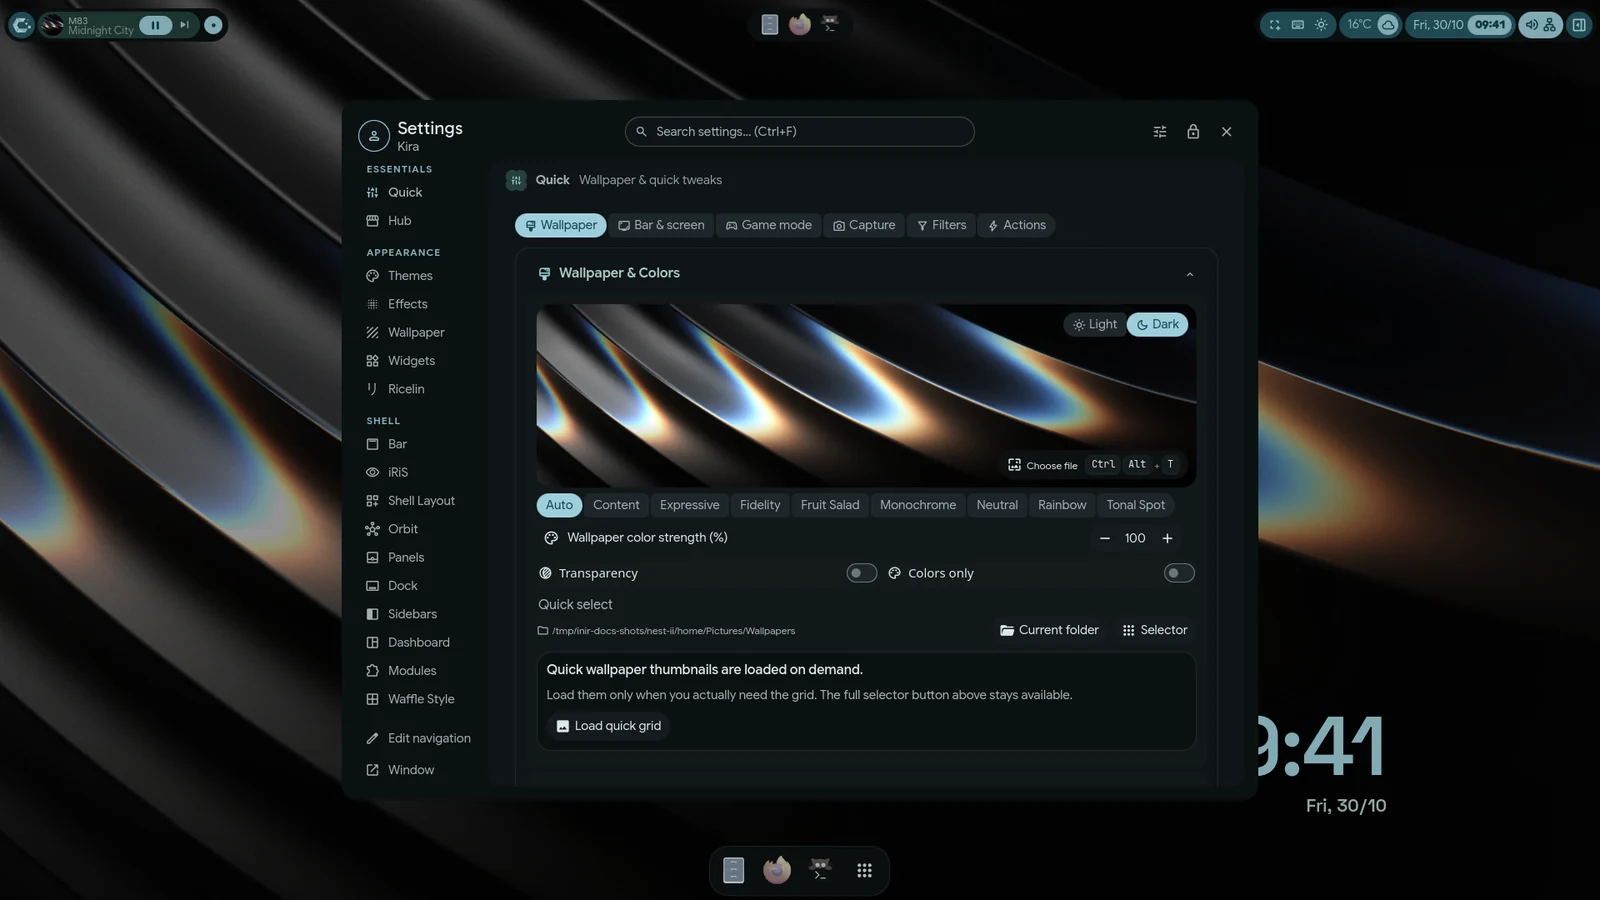
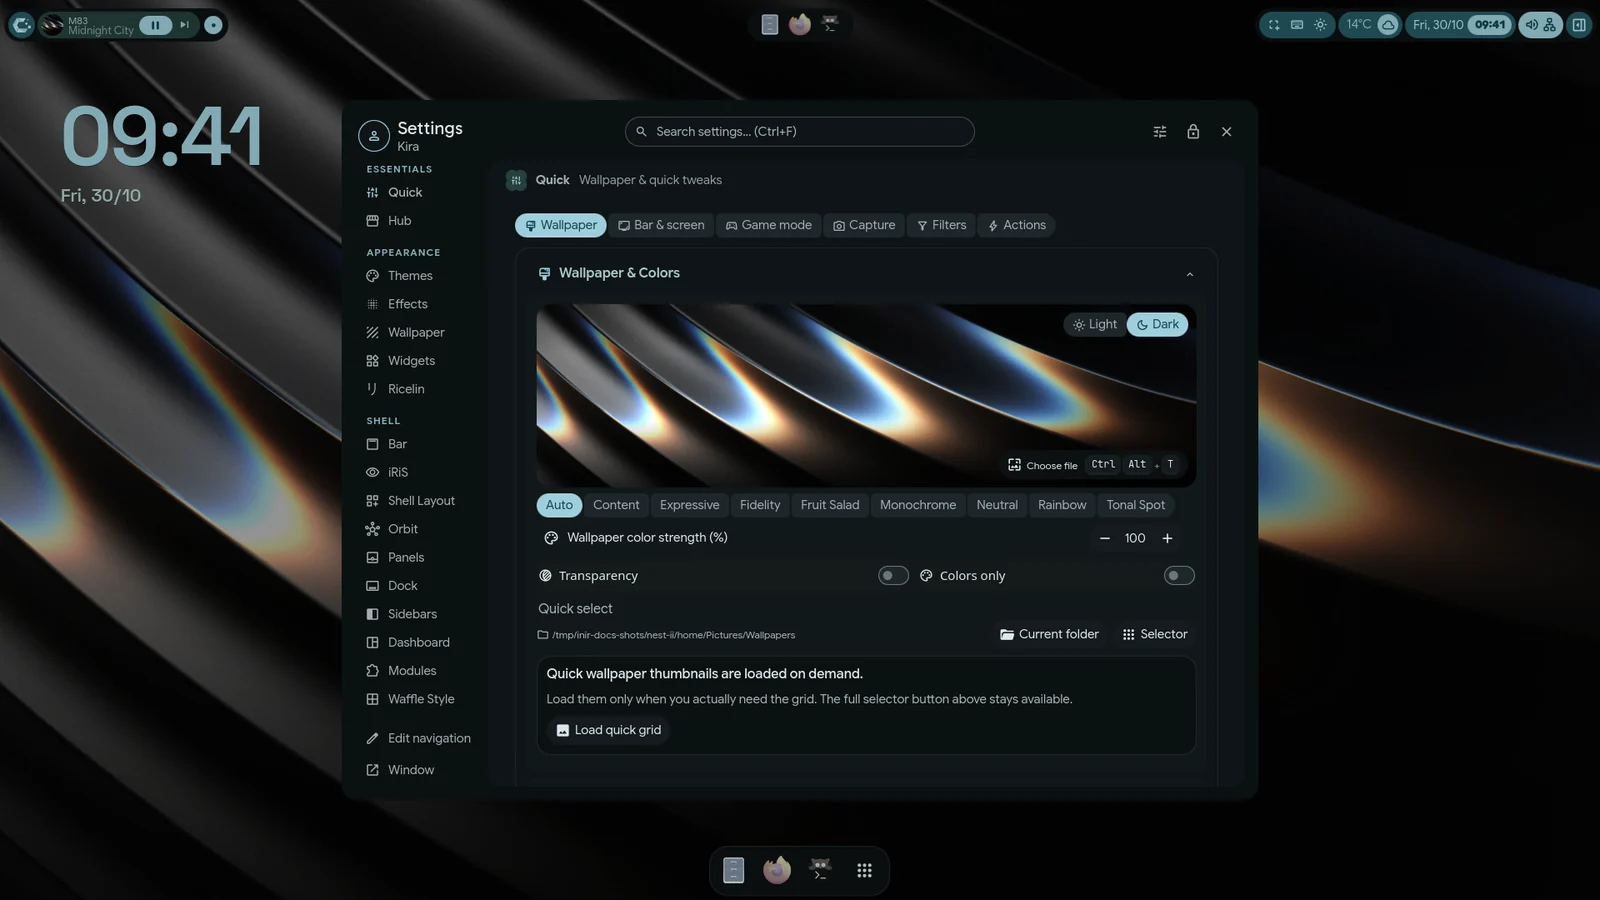
docs(shots): settings with the changed chip
This code was written by: Hikari.

diff --git a/docs/CONFIG_SYSTEM.md b/docs/CONFIG_SYSTEM.md
@@ -29,16 +29,16 @@ Press **Ctrl+F** in any family and type. Search matches option names, descriptio
 
 ## What you changed
 
-A setting your config file holds with a value other than a fresh install's shows a reset button: beside the control in Material and Waffle, on the dot
-by its label in iRiS. The button's space stays even when there is nothing to reset, so the control never moves. A
-reset happens at once, and the "Reset <setting>" notice has **Undo**. iRiS's **Restore defaults** for a page or group
-offers Undo too.
+A setting your config file holds with a value other than a fresh install's shows a reset button: beside the control in
+Material and Waffle, on the dot by its label in iRiS. The button's space stays even when there is nothing to reset, so
+the control never moves. A reset happens at once, and the "Reset <setting>" notice has **Undo**. iRiS's **Restore
+defaults** for a page or group offers Undo too.
 
 The **Changed** chip in the search bar counts every setting you changed and lists them with their page and section.
 Click one to go to its row.
 
-From a terminal, `inir ipc factory changed` prints those settings as `path = value`,
-and `inir ipc factory reset <path>` puts one back.
+From a terminal, `inir ipc factory changed` prints those settings as `path = value`, and `inir ipc factory reset
+<path>` puts one back.
 
 ## Easy and Advanced mode
 
